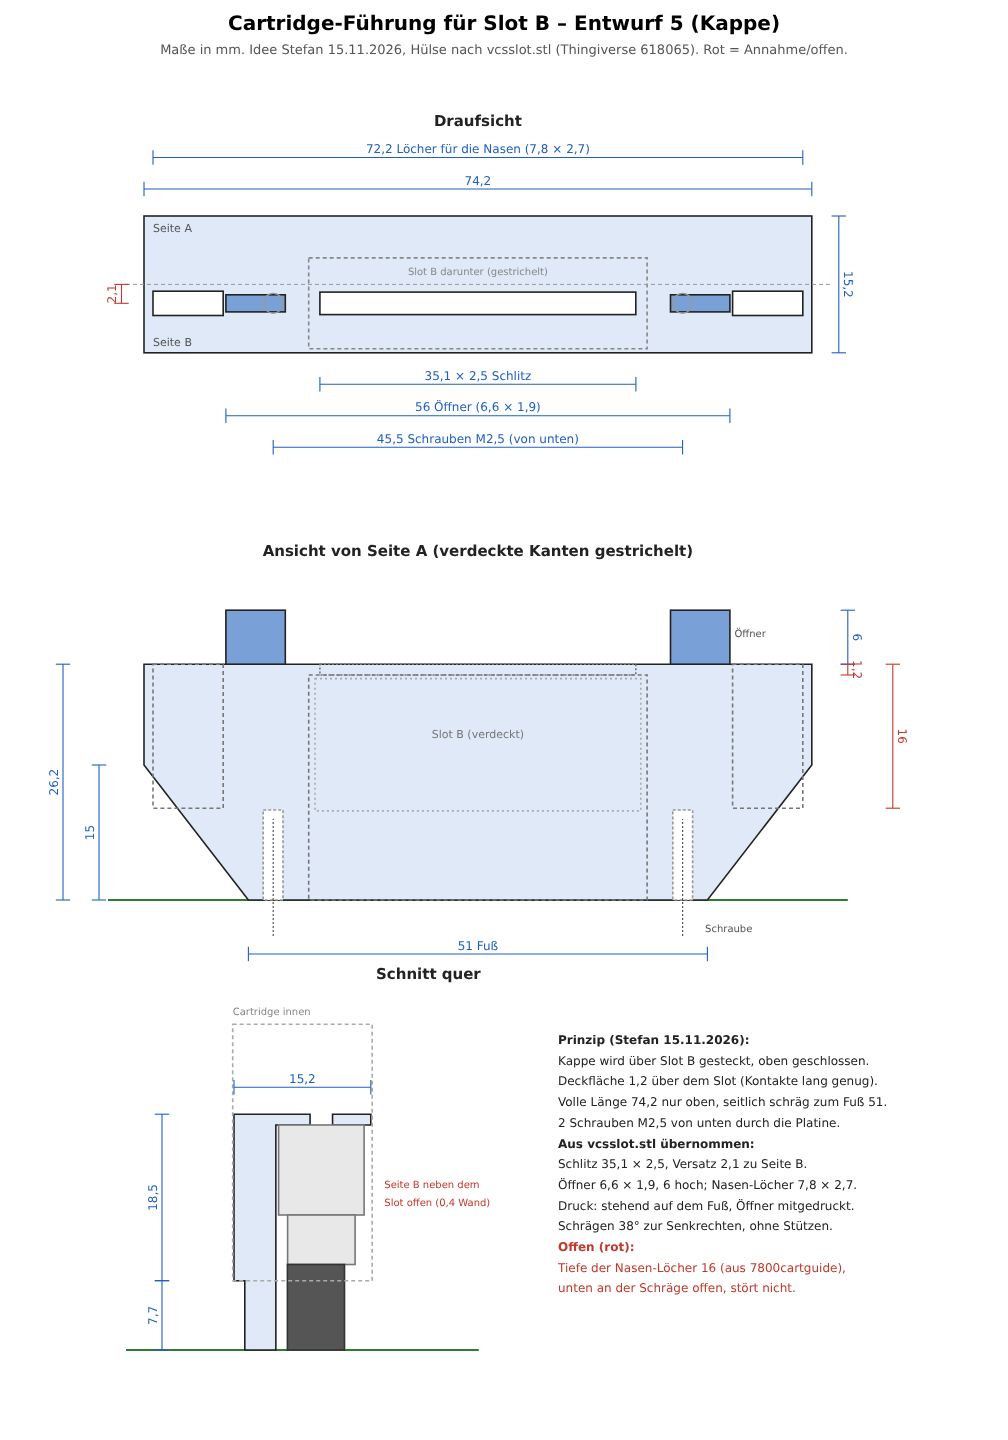
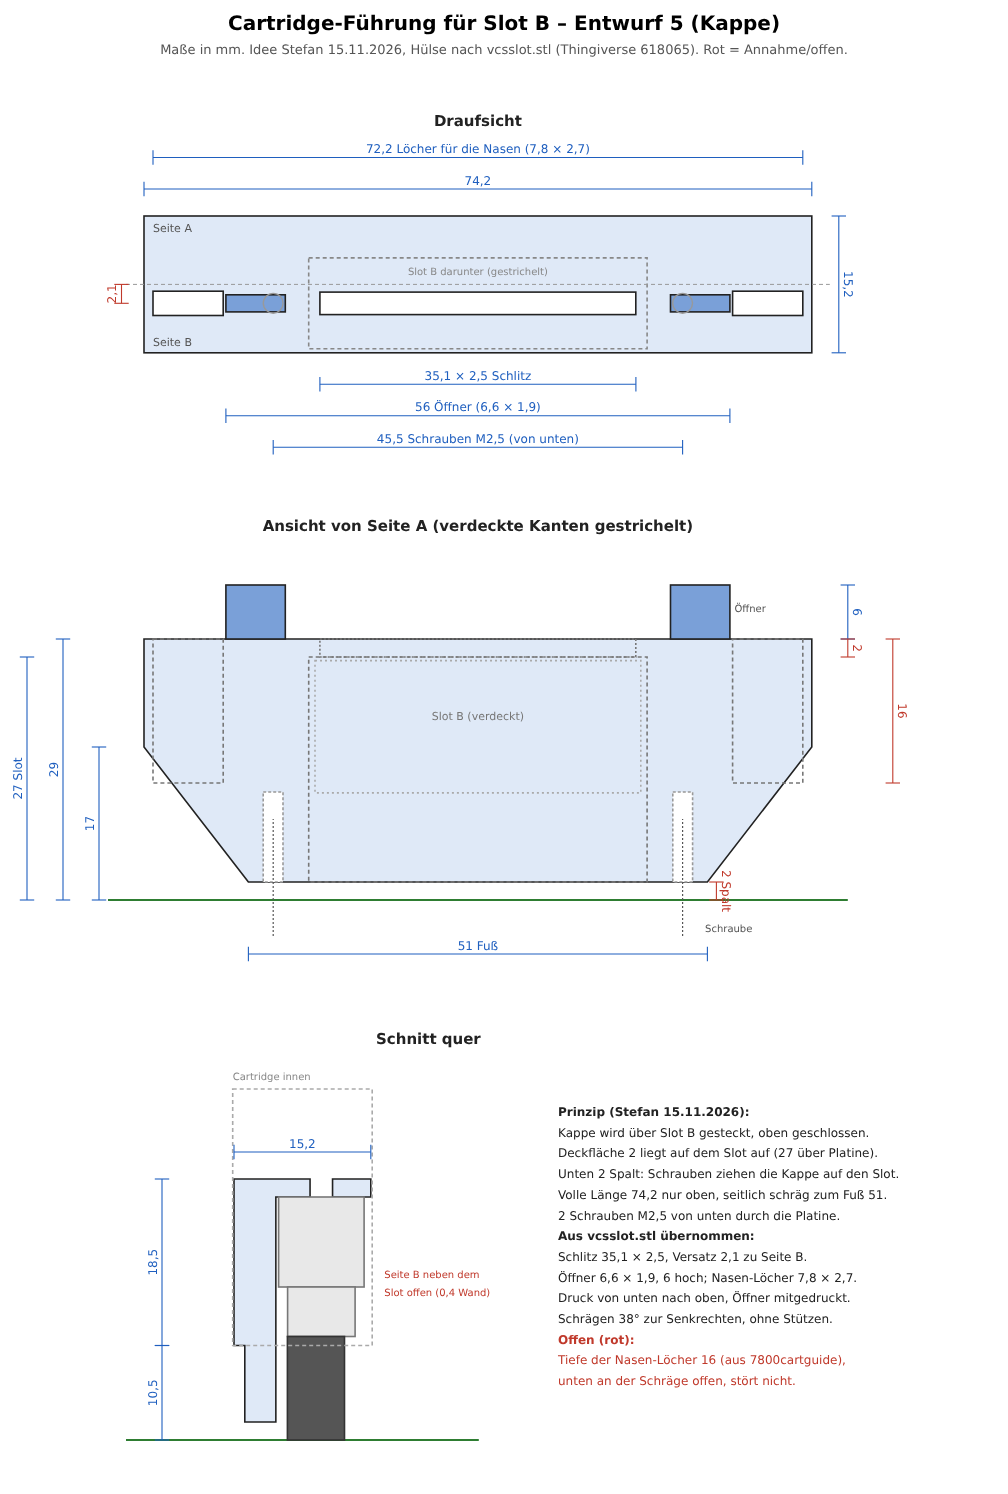
Cartridge guide draft 5: 2 mm top resting on slot (27 mm), 2 mm gap under the feet
Claude-Session: https://claude.ai/code/session_015VQCpzuZ22TPQEmx9cLrbH

diff --git a/hardware/guide-drawing/zeichnung.py b/hardware/guide-drawing/zeichnung.py
@@ -1,7 +1,7 @@
 # 2D-Massskizze der Cartridge-Fuehrung (3D-Druck), Entwurf 5: Kappe ueber Slot B (Stefan 15.11.2026)
 import sys
 # --- gemessen (Stefan 14.11.2026) ---
-SLOT_TOP = 25.0                          # Oberkante Slot B ueber Platine (auf Stiftleisten)
+SLOT_TOP = 27.0                          # Oberkante Slot B ueber Platine (Stefan 15.11.2026, vorher 25)
 SHELL_IN_L, SHELL_IN_W = 75.0, 15.5      # Cartridge innen
 SL_L, SL_W, SL_UP = 37.0, 9.5, 10.0      # Slot B, Oberteil 10 hoch
 SL_LOW_W, SL_H = 7.5, 15.5
@@ -12,17 +12,18 @@ OPN_X0, OPN_X1, OPN_T, PIN_H = 21.4, 28.0, 1.9, 6.0   # Klappen-Oeffner (Laschen
 NUB_X0, NUB_X1, NUB_W = 28.3, 36.1, 2.7  # Loecher fuer die Nasen der Cartridge, in der Platinenebene
 PIN_X = (OPN_X0 + OPN_X1) / 2
 # --- Entwurf ---
-PLATE = 1.2                              # geschlossene Deckflaeche ueber dem Slot
+PLATE = 2.0                              # geschlossene Deckflaeche, liegt auf dem Slot auf (Stefan 15.11.2026)
+GAP = 2.0                                # Spalt unter dem Fuss: Schrauben ziehen die Kappe auf den Slot
 TOP = SLOT_TOP + PLATE
 CLR = 0.3                                # Luft um den Slot
 CAV_L, CAV_W = SL_L + 2 * CLR, SL_W + 2 * CLR
 SLIT_L, SLIT_W = 35.1, 2.5               # Schlitz fuer die Cartridge-Platine (vcsslot)
 HOLE_X, SCREW_D, SCREW_DEPTH = 22.75, 2.2, 10.0   # M2,5 von unten durch die Platine
 FOOT_X = HOLE_X + 2.7 / 2 + 1.4          # Fuss endet knapp hinter der Lochaussenkante
-FULL_Z = 15.0                            # darueber volle Laenge (Fuehrung in der Cartridge)
+FULL_Z = 17.0                            # darueber volle Laenge (Fuehrung in der Cartridge)
 NUB_DEPTH = 16.0                         # Tiefe der Nasen-Loecher (7800cartguide ca. 16-18)
 BAND = 8.5                               # unten max. 8,5 neben der Slotmitte (freie Flaeche 61 x 17)
-STEP_Z = 7.7                             # Unterkante Cartridge mit Kappe (6,5 + 1,2)
+STEP_Z = SLOT_TOP + PLATE - 18.5         # Unterkante Cartridge (Slot ragt 18,5 ins Gehaeuse, gemessen 14.11.)
 S = 9
 RED, DIM, PIN, ADPC = '#c0392b', '#1f5fbf', '#c47a00', '#d9c7a0'
 out = []
@@ -76,40 +77,38 @@ lx, base = 16, 100
 lcx = lx + CAP_L / 2
 txt(lcx, base - TOP - PIN_H - 6, 'Ansicht von Seite A (verdeckte Kanten gestrichelt)', 15, bold=True)
 ln(lx - 4, base, lx + CAP_L + 4, base, '#2e7d32', 2.2)
-poly([(lcx - FOOT_X, base), (lcx - CAP_L / 2, base - FULL_Z), (lcx - CAP_L / 2, base - TOP),
-      (lcx + CAP_L / 2, base - TOP), (lcx + CAP_L / 2, base - FULL_Z), (lcx + FOOT_X, base)])
+poly([(lcx - FOOT_X, base - GAP), (lcx - CAP_L / 2, base - FULL_Z), (lcx - CAP_L / 2, base - TOP),
+      (lcx + CAP_L / 2, base - TOP), (lcx + CAP_L / 2, base - FULL_Z), (lcx + FOOT_X, base - GAP)])
 # Ansicht: Seite A ist eine durchgehende Wand, verdeckte Kanten gestrichelt
-rect(lcx - CAV_L / 2, base - SLOT_TOP, CAV_L, SLOT_TOP, fill='none', c='#777', dash='4,3')
+rect(lcx - CAV_L / 2, base - SLOT_TOP, CAV_L, SLOT_TOP - GAP, fill='none', c='#777', dash='4,3')
 rect(lcx - SLIT_L / 2, base - TOP, SLIT_L, PLATE, fill='none', c='#777', dash='2,2')
 rect(lcx - SL_L / 2 + .4, base - SLOT_TOP + .4, SL_L - .8, SL_H - .8, fill='none', c='#aaa', dash='2,3')
 for s in (-1, 1):
     rect(lcx + OPN_X0 if s > 0 else lcx - OPN_X1, base - TOP - PIN_H, OPN_X1 - OPN_X0, PIN_H, fill='#7aa0d8')
     rect(lcx + s * NUB_X0 if s > 0 else lcx - NUB_X1, base - TOP, NUB_X1 - NUB_X0, NUB_DEPTH, fill='none', c='#777', dash='4,3')
-    rect(lcx + s * HOLE_X - SCREW_D / 2, base - SCREW_DEPTH, SCREW_D, SCREW_DEPTH, fill='white', c='#999', dash='3,2')
+    rect(lcx + s * HOLE_X - SCREW_D / 2, base - GAP - SCREW_DEPTH, SCREW_D, SCREW_DEPTH, fill='white', c='#999', dash='3,2')
     ln(lcx + s * HOLE_X, base + 4, lcx + s * HOLE_X, base - SCREW_DEPTH + 1, '#555', 1.2, '2,2')
 txt(lcx, base - SLOT_TOP + 7, 'Slot B (verdeckt)', 11, '#777')
 dimv(lx - 9, base - TOP, base, f(TOP))
+dimv(lx - 13, base - SLOT_TOP, base, f(SLOT_TOP) + ' Slot')
 dimv(lx - 5, base - FULL_Z, base, f(FULL_Z))
 dimv(lx + CAP_L + 4, base - TOP - PIN_H, base - TOP, f(PIN_H), left=False)
 dimv(lx + CAP_L + 4, base - TOP, base - SLOT_TOP, f(PLATE), RED, left=False)
 dimh(lcx - FOOT_X, lcx + FOOT_X, base + 6, f(2 * FOOT_X) + ' Fuß')
+dimv(lcx + FOOT_X + 1, base - GAP, base, f(GAP) + ' Spalt', RED, left=False)
 txt(lcx + OPN_X1 + .5, base - TOP - 3, 'Öffner', 10, '#555', 'start')
 dimv(lx + CAP_L + 9, base - TOP, base - TOP + NUB_DEPTH, f(NUB_DEPTH), RED, left=False)
 txt(lcx + HOLE_X + 2.5, base + 3.5, 'Schraube', 10, '#555', 'start')
 
 # --- Schnitt quer ---
-qx, qb = 26, 150
+qx, qb = 26, 160
 qcx = qx + CAP_W / 2
 qsy = qcx + OFF
 txt(qcx + 14, qb - TOP - 15, 'Schnitt quer', 15, bold=True)
 ln(qx - 12, qb, qx + CAP_W + 12, qb, '#2e7d32', 2.2)
-poly([(qsy - BAND, qb), (qsy - BAND, qb - STEP_Z), (qcx - CAP_W / 2, qb - STEP_Z), (qcx - CAP_W / 2, qb - TOP),
-      (qcx + CAP_W / 2, qb - TOP), (qcx + CAP_W / 2, qb - SLOT_TOP), (qsy + CAV_W / 2, qb - SLOT_TOP), (qsy + CAV_W / 2, qb),
-      (qsy - CAV_W / 2, qb), (qsy - CAV_W / 2, qb - SLOT_TOP), (qsy - SLIT_W / 2, qb - SLOT_TOP), (qsy - SLIT_W / 2, qb - TOP),
-      (qsy + SLIT_W / 2, qb - TOP), (qsy + SLIT_W / 2, qb - SLOT_TOP)], fill='none', c='none')
 # Seite A massiv, Deckflaeche, Seite B offen
-poly([(qsy - BAND, qb), (qsy - BAND, qb - STEP_Z), (qcx - CAP_W / 2, qb - STEP_Z), (qcx - CAP_W / 2, qb - TOP),
-      (qsy - SLIT_W / 2, qb - TOP), (qsy - SLIT_W / 2, qb - SLOT_TOP), (qsy - CAV_W / 2, qb - SLOT_TOP), (qsy - CAV_W / 2, qb)])
+poly([(qsy - BAND, qb - GAP), (qsy - BAND, qb - STEP_Z), (qcx - CAP_W / 2, qb - STEP_Z), (qcx - CAP_W / 2, qb - TOP),
+      (qsy - SLIT_W / 2, qb - TOP), (qsy - SLIT_W / 2, qb - SLOT_TOP), (qsy - CAV_W / 2, qb - SLOT_TOP), (qsy - CAV_W / 2, qb - GAP)])
 poly([(qsy + SLIT_W / 2, qb - TOP), (qcx + CAP_W / 2, qb - TOP), (qcx + CAP_W / 2, qb - SLOT_TOP), (qsy + SLIT_W / 2, qb - SLOT_TOP)])
 rect(qsy - SL_W / 2, qb - SLOT_TOP, SL_W, SL_UP, fill='#e8e8e8', c='#777')
 rect(qsy - SL_LOW_W / 2, qb - SLOT_TOP + SL_UP, SL_LOW_W, SL_H - SL_UP, fill='#e8e8e8', c='#777')
@@ -123,23 +122,24 @@ txt(qcx + CAP_W / 2 + 1.5, qb - 16, 'Slot offen (0,4 Wand)', 10, RED, 'start')
 txt(qcx - SHELL_IN_W / 2, qb - TOP - 11, 'Cartridge innen', 10, '#888', 'start')
 
 # --- Hinweise ---
-nx, ny = 62, 116
+nx, ny = 62, 124
 notes = [('Prinzip (Stefan 15.11.2026):', '#222', True),
          ('Kappe wird über Slot B gesteckt, oben geschlossen.', '#222', False),
-         ('Deckfläche 1,2 über dem Slot (Kontakte lang genug).', '#222', False),
+         ('Deckfläche 2 liegt auf dem Slot auf (27 über Platine).', '#222', False),
+         ('Unten 2 Spalt: Schrauben ziehen die Kappe auf den Slot.', '#222', False),
          ('Volle Länge 74,2 nur oben, seitlich schräg zum Fuß 51.', '#222', False),
          ('2 Schrauben M2,5 von unten durch die Platine.', '#222', False),
          ('Aus vcsslot.stl übernommen:', '#222', True),
          ('Schlitz 35,1 × 2,5, Versatz 2,1 zu Seite B.', '#222', False),
          ('Öffner 6,6 × 1,9, 6 hoch; Nasen-Löcher 7,8 × 2,7.', '#222', False),
-         ('Druck: stehend auf dem Fuß, Öffner mitgedruckt.', '#222', False),
+         ('Druck von unten nach oben, Öffner mitgedruckt.', '#222', False),
          ('Schrägen 38° zur Senkrechten, ohne Stützen.', '#222', False),
          ('Offen (rot):', RED, True),
          ('Tiefe der Nasen-Löcher 16 (aus 7800cartguide),', RED, False),
          ('unten an der Schräge offen, stört nicht.', RED, False)]
 for i, (t, c, b) in enumerate(notes):
     txt(nx, ny + i * 2.3, t, 12, c, 'start', bold=b)
-w, h = 112 * S, 160 * S
+w, h = 112 * S, 166 * S
 svg = f'<svg xmlns="http://www.w3.org/2000/svg" width="{w}" height="{h}" viewBox="0 0 {w} {h}"><rect width="100%" height="100%" fill="white"/>' + \
       f'<text x="{w/2}" y="30" font-family="DejaVu Sans, sans-serif" font-size="20" font-weight="bold" text-anchor="middle">Cartridge-Führung für Slot B – Entwurf 5 (Kappe)</text>' + \
       f'<text x="{w/2}" y="54" font-family="DejaVu Sans, sans-serif" font-size="13" fill="#555" text-anchor="middle">Maße in mm. Idee Stefan 15.11.2026, Hülse nach vcsslot.stl (Thingiverse 618065). Rot = Annahme/offen.</text>' + ''.join(out) + '</svg>'
